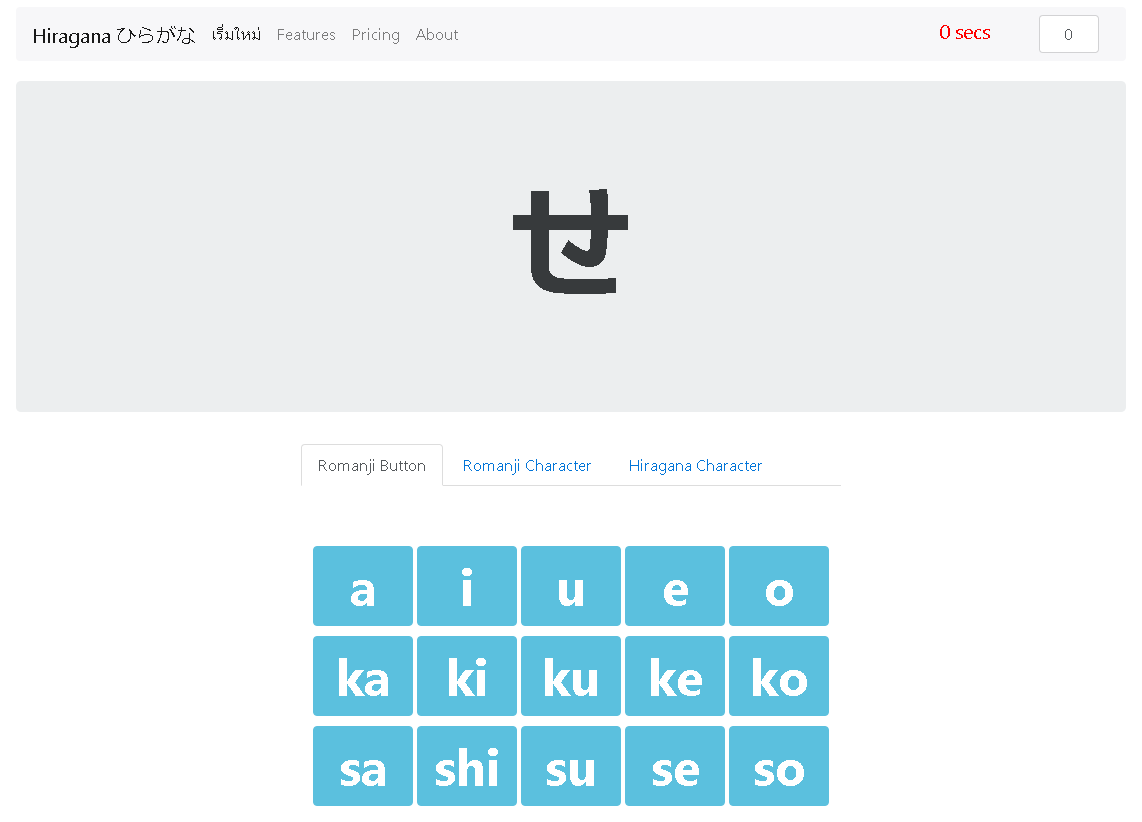
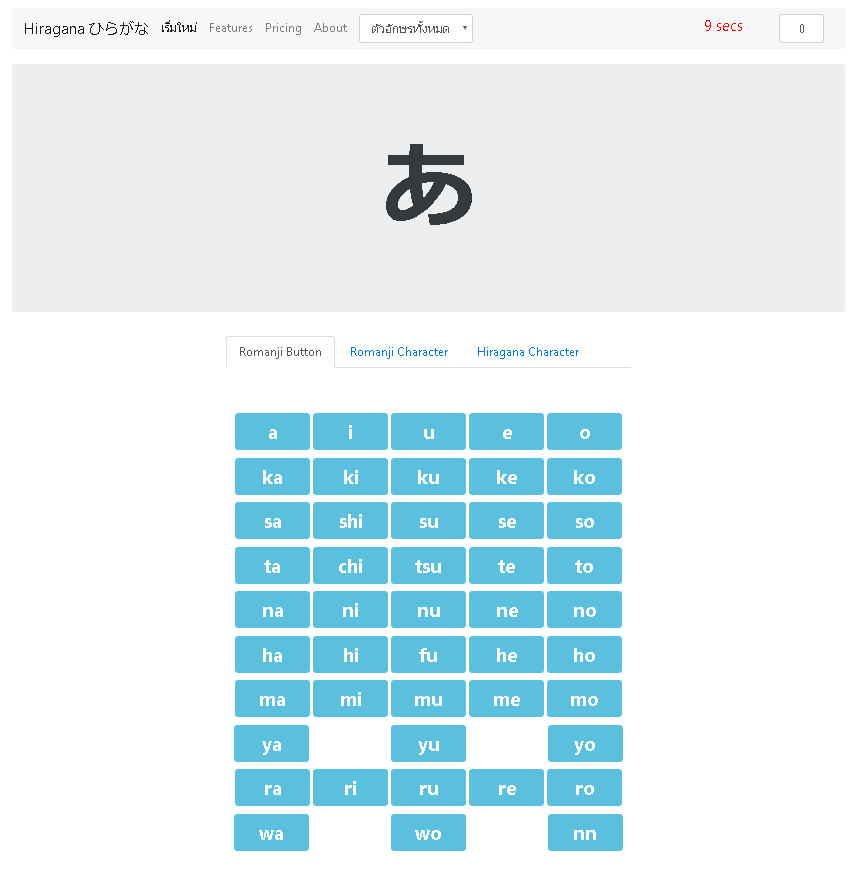
add new character

diff --git a/index.html b/index.html
@@ -39,10 +39,25 @@
             <li class="nav-item">
               <a class="nav-link" href="#">About</a>
             </li>
+            <li class="nav-item">
+              <select id="hiragana_level" class="form-control" onchange="hiragana_level_change(this.value)">
+                <option value="all" selected="selected"  >ตัวอักษรทั้งหมด</option>
+                <option value="1">ตัวอักษรชุดที่ 1</option>
+                <option value="2">ตัวอักษรชุดที่ 2</option>
+                <option value="3">ตัวอักษรชุดที่ 3</option>
+              </select>
+            </li>
+            <style media="screen">
+            .tooltip-inner {
+              max-width: 250px;
+              /* If max-width does not work, try using width instead */
+              width: 250px;
+              white-space:pre-wrap;
+            }
+            </style>
           </ul>
           <form class="form-inline float-xs-right">
             <div class="col-md-12">
-
               <div class="col-md-7"><span id="timer" style="font-size:20px;color:red"></span></div>
               <div class="col-md-5"><input id="score" class="form-control" style="width: 60px;text-align:center" type="text" placeholder="Score" value="0"></div>
             </div>
@@ -96,6 +111,51 @@
                 <input type="button" class="btn btn-info"  value="se" id="se" />
                 <input type="button" class="btn btn-info"  value="so" id="so" />
               </div>
+              <div class="col-md-12" style="text-align: center;padding-top:10px">
+                <input type="button" class="btn btn-info"  value="ta" id="ta" />
+                <input type="button" class="btn btn-info"  value="chi" id="chi" />
+                <input type="button" class="btn btn-info"  value="tsu" id="tsu" />
+                <input type="button" class="btn btn-info"  value="te" id="te" />
+                <input type="button" class="btn btn-info"  value="to" id="to" />
+              </div>
+              <div class="col-md-12" style="text-align: center;padding-top:10px">
+                <input type="button" class="btn btn-info"  value="na" id="na" />
+                <input type="button" class="btn btn-info"  value="ni" id="ni" />
+                <input type="button" class="btn btn-info"  value="nu" id="nu" />
+                <input type="button" class="btn btn-info"  value="ne" id="ne" />
+                <input type="button" class="btn btn-info"  value="no" id="no" />
+              </div>
+              <div class="col-md-12" style="text-align: center;padding-top:10px">
+                <input type="button" class="btn btn-info"  value="ha" id="ha" />
+                <input type="button" class="btn btn-info"  value="hi" id="hi" />
+                <input type="button" class="btn btn-info"  value="fu" id="fu" />
+                <input type="button" class="btn btn-info"  value="he" id="he" />
+                <input type="button" class="btn btn-info"  value="ho" id="ho" />
+              </div>
+              <div class="col-md-12" style="text-align: center;padding-top:10px">
+                <input type="button" class="btn btn-info"  value="ma" id="ma" />
+                <input type="button" class="btn btn-info"  value="mi" id="mi" />
+                <input type="button" class="btn btn-info"  value="mu" id="mu" />
+                <input type="button" class="btn btn-info"  value="me" id="me" />
+                <input type="button" class="btn btn-info"  value="mo" id="mo" />
+              </div>
+              <div class="col-md-12" style="text-align: center;padding-top:10px">
+                <input type="button" class="btn btn-info"  value="ya" id="ya"  style="margin-right:105px"/>
+                <input type="button" class="btn btn-info"  value="yu" id="yu" />
+                <input type="button" class="btn btn-info"  value="yo" id="yo"  style="margin-left:105px"/>
+              </div>
+              <div class="col-md-12" style="text-align: center;padding-top:10px">
+                <input type="button" class="btn btn-info"  value="ra" id="ra" />
+                <input type="button" class="btn btn-info"  value="ri" id="ri" />
+                <input type="button" class="btn btn-info"  value="ru" id="ru" />
+                <input type="button" class="btn btn-info"  value="re" id="re" />
+                <input type="button" class="btn btn-info"  value="ro" id="ro" />
+              </div>
+              <div class="col-md-12" style="text-align: center;padding-top:10px">
+                <input type="button" class="btn btn-info"  value="wa" id="wa" style="margin-right:105px"/>
+                <input type="button" class="btn btn-info"  value="wo" id="wo" />
+                <input type="button" class="btn btn-info"  value="nn" id="nn" style="margin-left:105px"/>
+              </div>
             </div>
           </div>
           <div class="tab-pane" id="romanji_text" role="tabpanel">
@@ -119,7 +179,7 @@
     </div> <!-- /container -->
     <style>
       #hiragana-button input{
-        font-size:50px;
+        font-size:25px;
         font-weight: bolder;
         width:100px;
       }

diff --git a/hiragana.js b/hiragana.js
@@ -1,12 +1,73 @@
-
 // ตั้งค่าตัวอักษร
-var hiragana = "あいうえおかきくけこさしすせそ";
-var romanji =
-[
-  "a","i","u","e","o",
-  "ka","ki","ku","ke","ko",
-  "sa","shi","su","se","so"
-]
+/* var hiragana = "あいうえおかきくけこさしすせそたちつてとなにぬねのはひふへほまみむめもやゆよらりるれろわをん";
+   var romanji =
+   [
+     "a",   "i",   "u",    "e",    "o",
+     "ka",  "ki",  "ku",   "ke",   "ko",
+     "sa",  "shi", "su",   "se",   "so",
+     "ta",  "chi", "tsu",  "te",   "to",
+     "na",  "ni",  "nu",   "ne",   "no",
+     "ha",  "hi",  "fu",   "he",   "ho",
+     "ma",  "mi",  "mu",   "me",   "mo",
+     "ya",         "yu",           "yo",
+     "ra",  "ri",  "ru",   "re",   "ro",
+     "wa",                         "wo","nn"
+
+   ]
+*/
+var hiragana;
+var romanji;
+function hiragana_level_change(level){
+  switch (level) {
+    case "1":
+                hiragana = "あいうえおかきくけこさしすせそ";
+                romanji =
+                [
+                  "a",   "i",   "u",    "e",    "o",
+                  "ka",  "ki",  "ku",   "ke",   "ko",
+                  "sa",  "shi", "su",   "se",   "so"
+                ];
+      break;
+    case "2":
+                hiragana = "たちつてとなにぬねのはひふへほ";
+                romanji =
+                [
+                  "ta",  "chi", "tsu",  "te",   "to",
+                  "na",  "ni",  "nu",   "ne",   "no",
+                  "ha",  "hi",  "fu",   "he",   "ho"
+                ];
+      break;
+    case "3":
+                hiragana = "まみむめもやゆよらりるれろわをん";
+                romanji =
+                [
+                  "ma",  "mi",  "mu",   "me",   "mo",
+                  "ya",         "yu",           "yo",
+                  "ra",  "ri",  "ru",   "re",   "ro",
+                  "wa",                         "wo","nn"
+                ];
+      break;
+    default:
+                hiragana = "あいうえおかきくけこさしすせそたちつてとなにぬねのはひふへほまみむめもやゆよらりるれろわをん";
+                romanji =
+                [
+                  "a",   "i",   "u",    "e",    "o",
+                  "ka",  "ki",  "ku",   "ke",   "ko",
+                  "sa",  "shi", "su",   "se",   "so",
+                  "ta",  "chi", "tsu",  "te",   "to",
+                  "na",  "ni",  "nu",   "ne",   "no",
+                  "ha",  "hi",  "fu",   "he",   "ho",
+                  "ma",  "mi",  "mu",   "me",   "mo",
+                  "ya",         "yu",           "yo",
+                  "ra",  "ri",  "ru",   "re",   "ro",
+                  "wa",                         "wo","nn"
+
+                ];
+
+  }
+  random_char();
+}
+hiragana_level_change("init");
 
 // คะแนน
 var score = 0;
@@ -43,6 +104,23 @@ $(function(){
       }
       return false;    //<---- Add this line
     }
+  });
+
+  $('#hiragana_level').tooltip({
+    title :
+            "======================= "+
+            "ระดับของตัวอักษรมีอยู่ 3 ระดับให้เลือก \r\n"+
+            "======================= \r\n"+
+            "ระดับ 1 จะมีอยู่ 15 ตัวอักษรได้แก่ \r\n"+
+            "あいうえおかきくけこさしすせそ \r\n"+
+            "\r\n"+
+            "ระดับ 2 จะมีอยู่ 15 ตัวอักษรได้แก่ \r\n"+
+            "たちつてとなにぬねのはひふへほ \r\n"+
+            "\r\n"+
+            "ระดับ 3 จะมีอยู่ 16 ตัวอักษรได้แก่ \r\n"+
+            "まみむめもやゆよらりるれろわをん \r\n"
+    ,
+    placement : "bottom"
   });
 
 });
